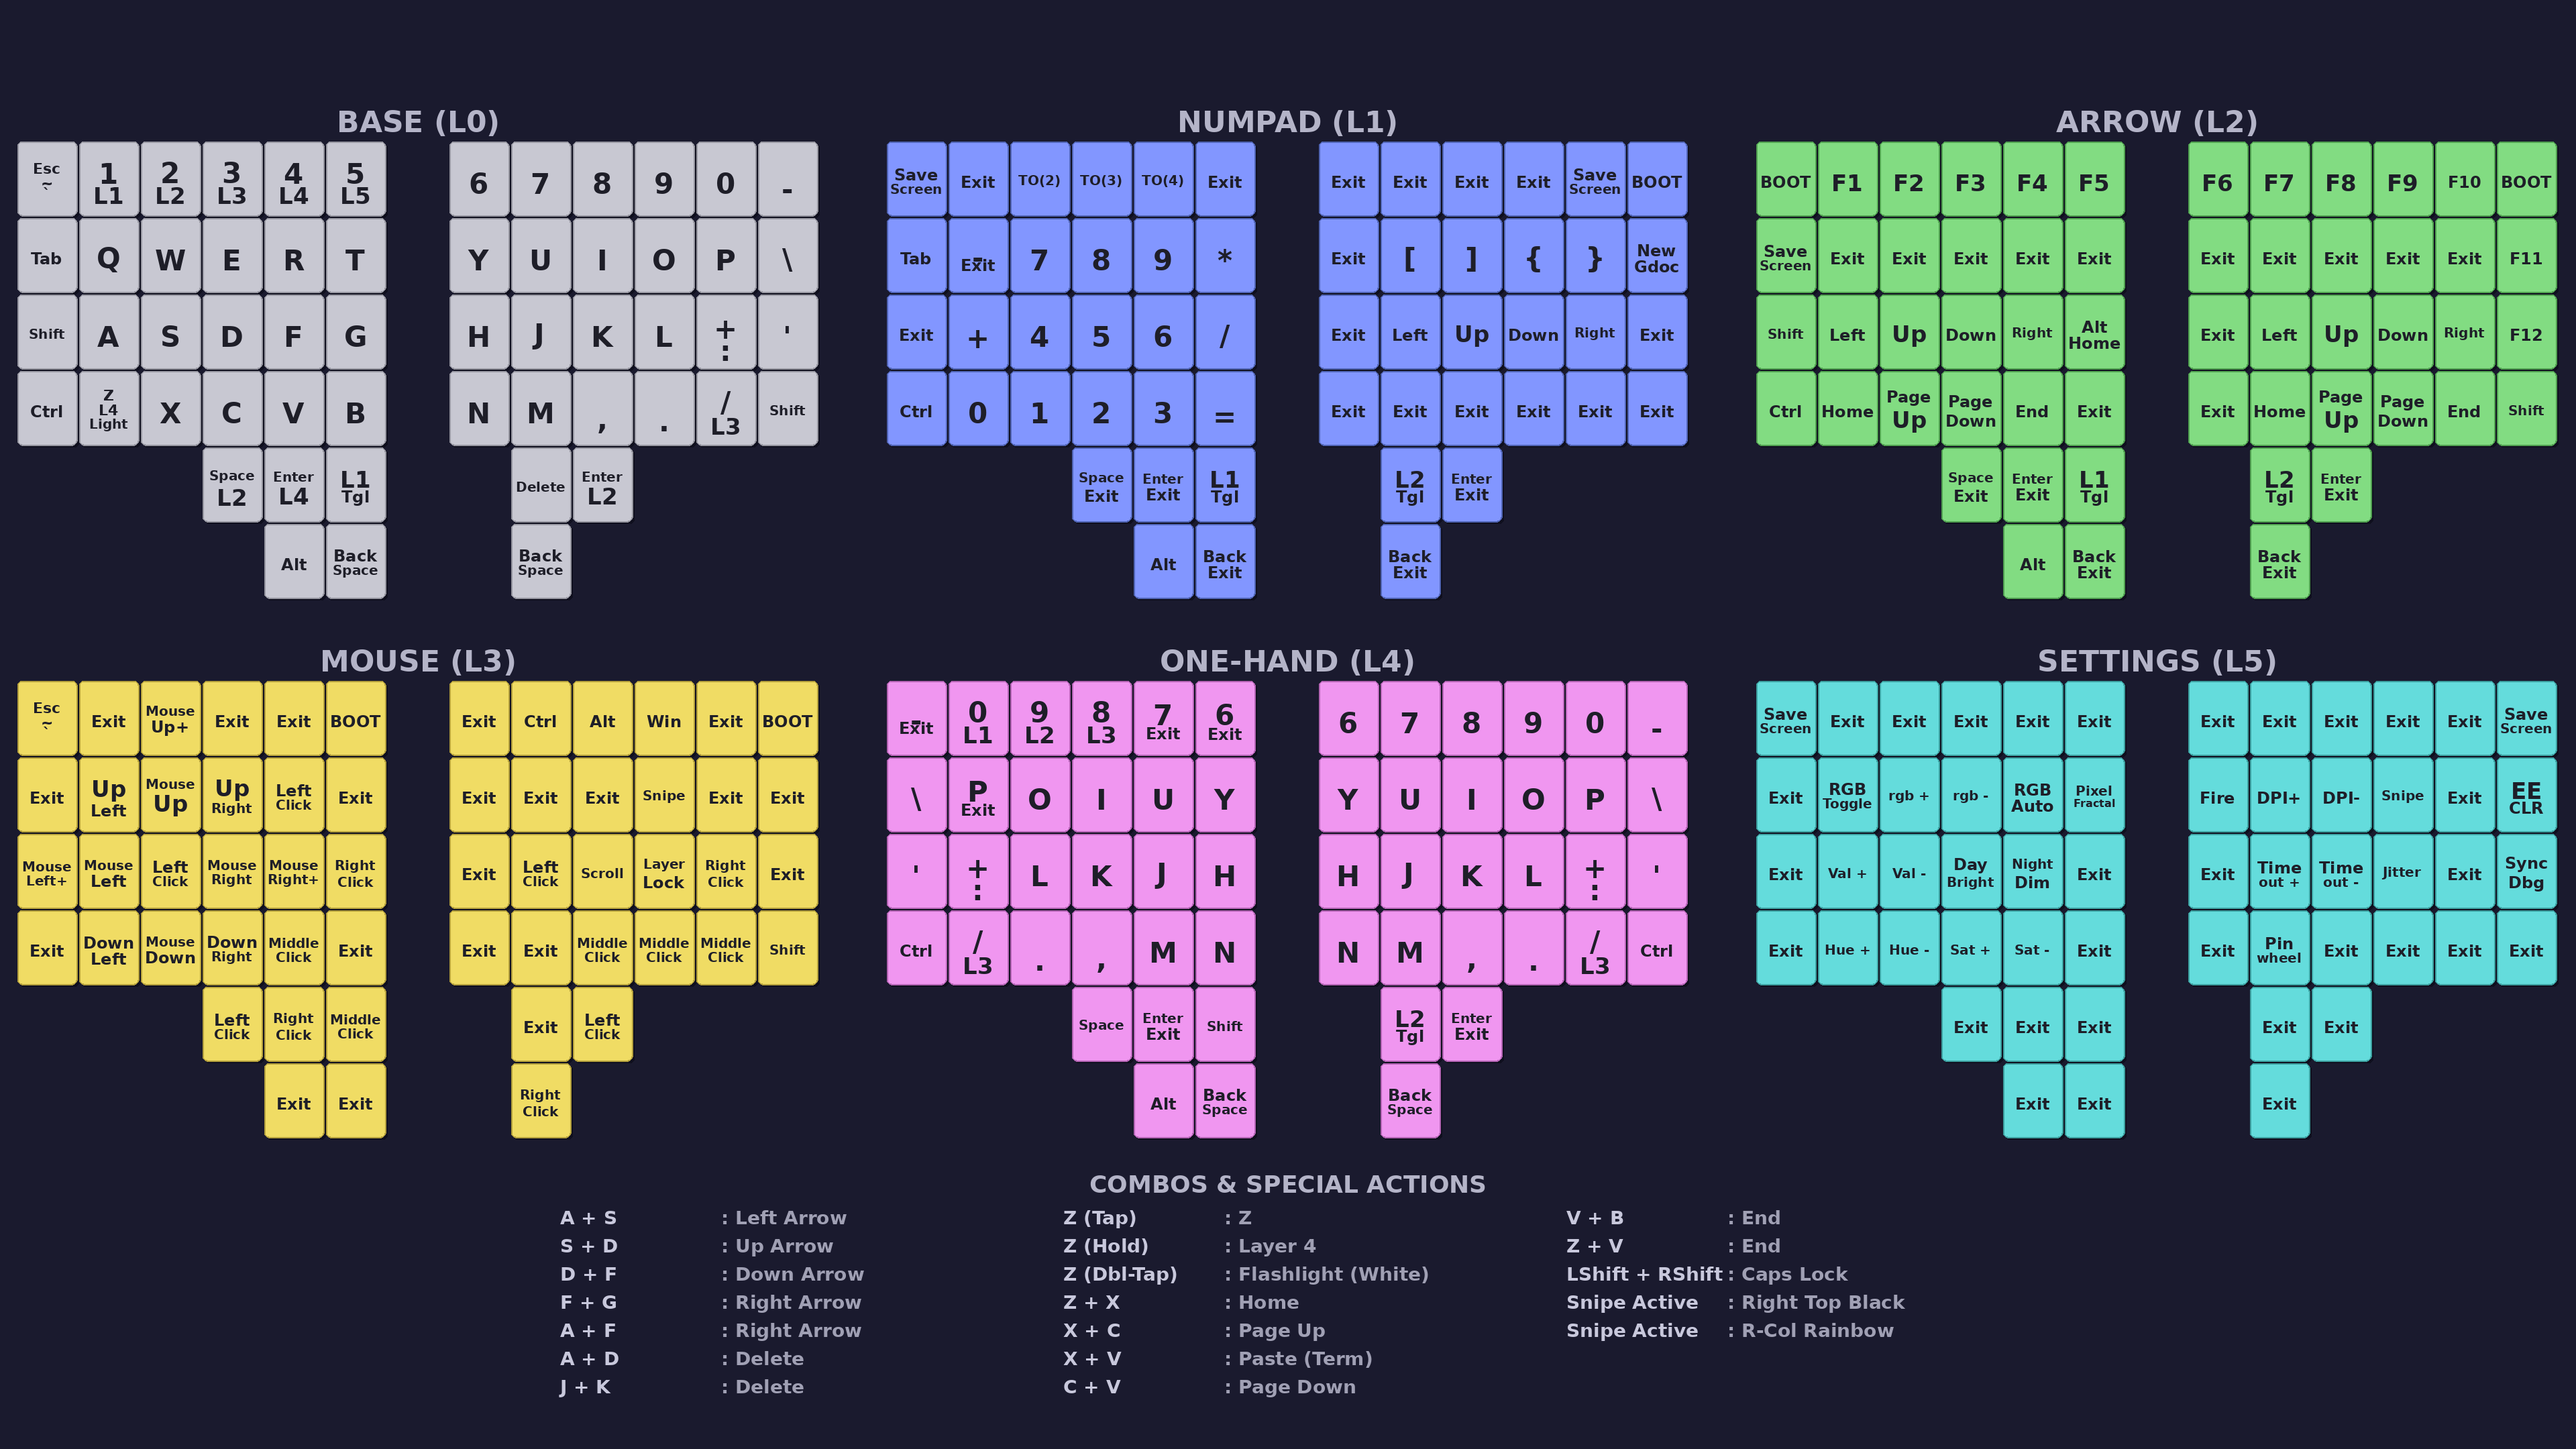
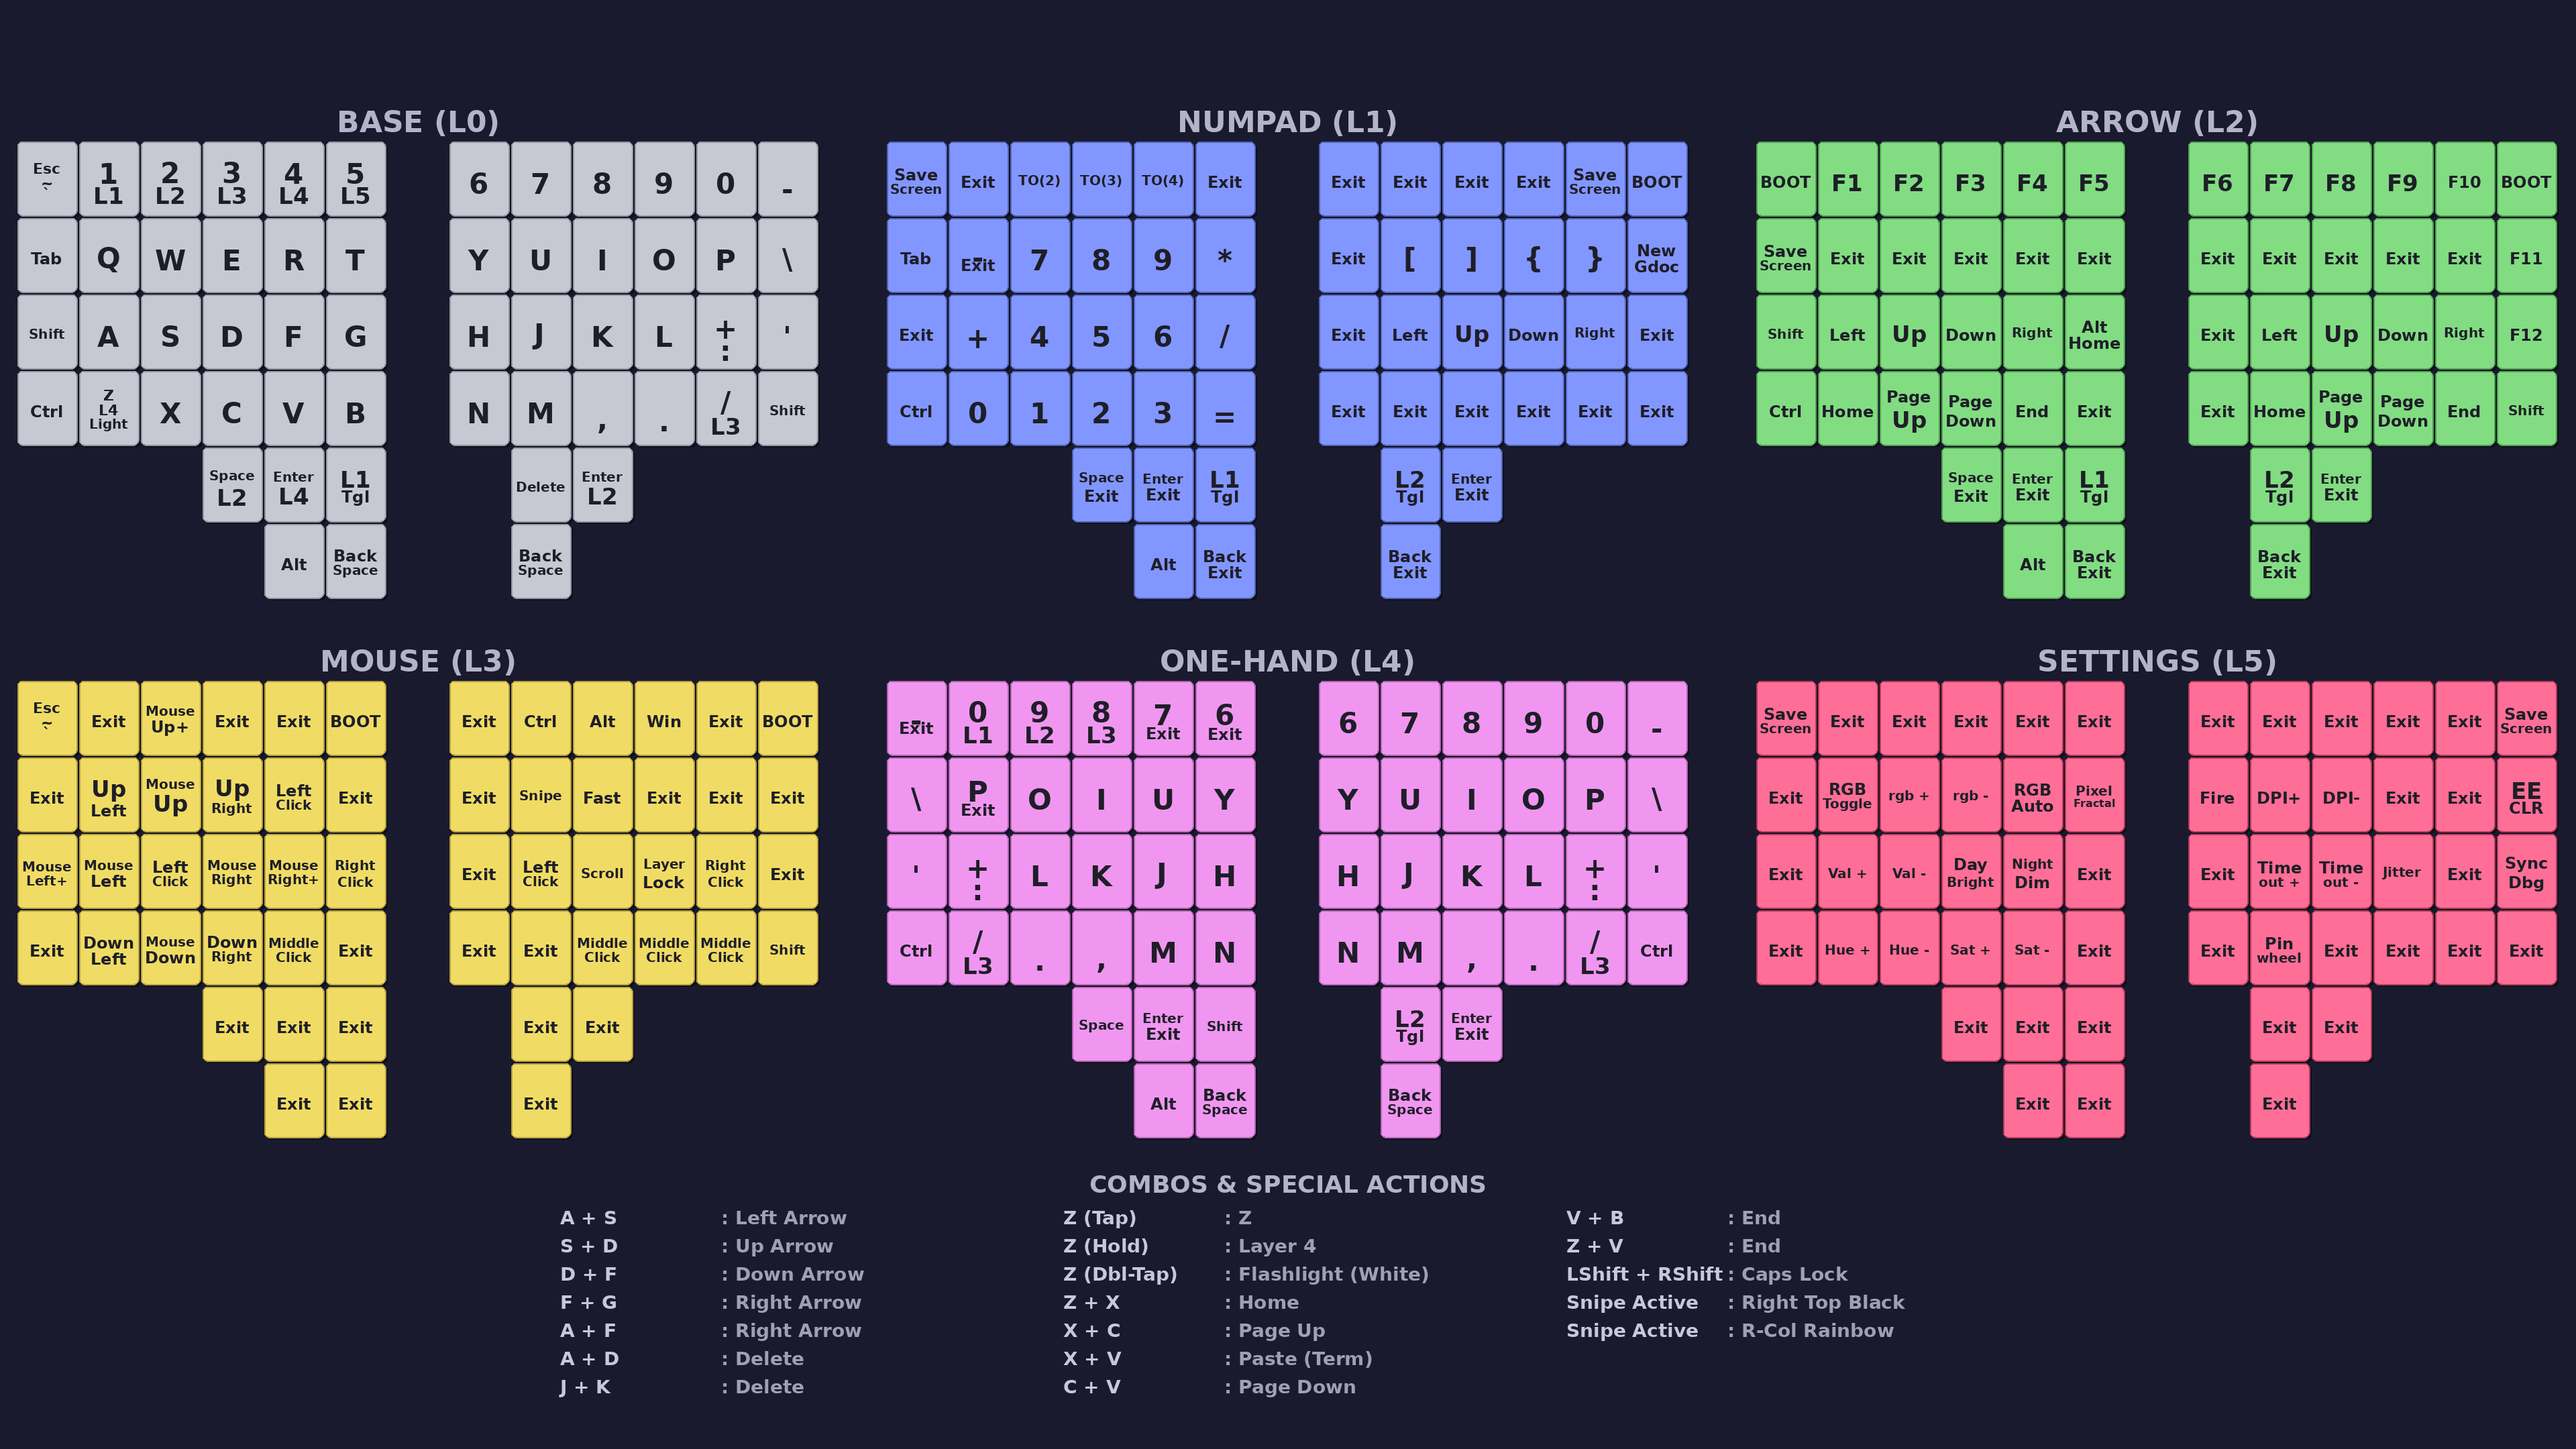
feat: Add Fast Mode and update Snipe Mode - Snipe Mode: Temporary (2.5s), 250 DPI, Slow Mouse Keys - Fast Mode: Temporary (2.5s), 3000 DPI, Fast Mouse Keys - Modes are mutually exclusive - Added KC_FAST to Layer 3 - Removed KC_SNIPE/KC_FAST from Layer 5 - Updated wallpaper and layout PDF

diff --git a/keymap/keymap.c b/keymap/keymap.c
@@ -82,6 +82,7 @@ enum custom_keycodes {
   KC_F12_EXIT,
   KC_FIRE,
   KC_SNIPE,
+  KC_FAST,
   KC_MS_TMO_INC,
   KC_MS_TMO_DEC,
   KC_SET_LEFT,
@@ -110,6 +111,9 @@ uint8_t cur_dance(tap_dance_state_t *state) {
 static tap_state_t z_tap_state = {.is_press_action = true, .state = 0};
 static bool is_flashlight = false;
 static bool is_sniping_active = false;
+static bool is_fast_mode_active = false;
+static uint16_t snipe_timer = 0;
+static uint16_t fast_mode_timer = 0;
 static bool mouse_is_locked = false;
 static bool is_jitter_filter_active = false; // Default: Filter OFF
 static uint8_t saved_rgb_mode;
@@ -121,7 +125,10 @@ static uint16_t auto_mouse_timeout = 1500; // Default 1.5 seconds, adjustable
 static uint16_t auto_mouse_timer = 0;
 static bool auto_mouse_on = false;
 
-
+// Mouse Key globals
+extern uint8_t mk_max_speed;
+extern uint8_t mk_time_to_max;
+extern uint8_t mk_interval;
 
 // Show mode state
 static bool show_mode_active = false;
@@ -169,6 +176,7 @@ static const uint8_t far_right_col[] = {0, 1, 2, 3};
 typedef struct _user_sync_info_t {
   bool is_flashlight;
   bool is_sniping_active;
+  bool is_fast_mode_active;
   bool mouse_is_locked;
   bool is_jitter_filter_active;
   bool show_mode_active;
@@ -207,6 +215,7 @@ void user_sync_info_slave_handler(uint8_t in_buflen, const void *in_data,
 
   is_flashlight = sync_data->is_flashlight;
   is_sniping_active = sync_data->is_sniping_active;
+  is_fast_mode_active = sync_data->is_fast_mode_active;
   mouse_is_locked = sync_data->mouse_is_locked;
   is_jitter_filter_active = sync_data->is_jitter_filter_active;
   show_mode_active = sync_data->show_mode_active;
@@ -411,6 +420,7 @@ void debug_dump_sync_state(void) {
   uprintf("show_mode_active: %s\n", show_mode_active ? "YES" : "no");
   uprintf("is_flashlight: %s\n", is_flashlight ? "YES" : "no");
   uprintf("is_sniping_active: %s\n", is_sniping_active ? "YES" : "no");
+  uprintf("is_fast_mode_active: %s\n", is_fast_mode_active ? "YES" : "no");
   uprintf("mouse_is_locked: %s\n", mouse_is_locked ? "YES" : "no");
   uprintf("is_jitter_filter_active: %s\n", is_jitter_filter_active ? "YES" : "no");
   uprintf("is_caps_lock_on: %s\n", is_caps_lock_on ? "YES" : "no");
@@ -1011,16 +1021,26 @@ bool process_record_user(uint16_t keycode, keyrecord_t *record) {
     return false;
   case KC_SNIPE:
     if (record->event.pressed) {
-      is_sniping_active = !is_sniping_active;
+      is_sniping_active = true;
+      is_fast_mode_active = false;
+      snipe_timer = timer_read();
       sync_needed = true;
-      if (is_sniping_active) {
-        pointing_device_set_cpi(250);
-        uprintf("[%lu.%03lu] Snipe ON. CPI -> 250\n", sec, ms);
-      } else {
-        pointing_device_set_cpi(charybdis_get_pointer_default_dpi());
-        uprintf("[%lu.%03lu] Snipe OFF. CPI -> Default (%u)\n", sec, ms,
-                pointing_device_get_cpi());
-      }
+      pointing_device_set_cpi(250);
+      mk_max_speed = 4; // Slow mouse keys
+      mk_interval = 24;
+      uprintf("[%lu.%03lu] Snipe ON (2.5s). CPI -> 250, MK -> Slow\n", sec, ms);
+    }
+    return false;
+  case KC_FAST:
+    if (record->event.pressed) {
+      is_fast_mode_active = true;
+      is_sniping_active = false;
+      fast_mode_timer = timer_read();
+      sync_needed = true;
+      pointing_device_set_cpi(3000);
+      mk_max_speed = 30; // Fast mouse keys
+      mk_interval = 10;
+      uprintf("[%lu.%03lu] Fast Mode ON (2.5s). CPI -> 3000, MK -> Fast\n", sec, ms);
     }
     return false;
   case KC_ENT_L2_EXIT:
@@ -1505,12 +1525,12 @@ const uint16_t PROGMEM keymaps[][MATRIX_ROWS][MATRIX_COLS] = {
                  KC_LCTL, KC_HOME, KC_PGUP, KC_PGDN, KC_END , KC_EXIT      ,   KC_EXIT, KC_HOME, KC_PGUP, KC_PGDN, KC_END , KC_RSFT,
                  KC_SPC_EXIT, KC_ENT_EXIT, KC_L_TG1, KC_R_TG2, KC_ENT_EXIT,
                  KC_LALT, KC_BSPC_EXIT, KC_BSPC_EXIT),
-    [3] = LAYOUT(QK_GESC, KC_EXIT   , KC_MS_FAST_UP, KC_EXIT, KC_EXIT  , QK_BOOT,   KC_EXIT, KC_RCTL, KC_RALT, KC_RGUI, KC_EXIT, QK_BOOT,
-                 KC_EXIT, KC_MS_DIAG_UL, MS_UP, KC_MS_DIAG_UR, MS_BTN1, KC_EXIT, KC_EXIT,   KC_EXIT, KC_EXIT, KC_SNIPE, KC_EXIT, KC_EXIT,
-                 KC_MS_FAST_LEFT, MS_LEFT, MS_BTN1 , MS_RGHT , KC_MS_FAST_RIGHT, MS_BTN2,   KC_EXIT, MS_BTN1, DRGSCRL, KC_MOUSE_LOCK, MS_BTN2, KC_EXIT,
-                 KC_EXIT, KC_MS_DIAG_DL  , MS_DOWN , KC_MS_DIAG_DR, MS_BTN3    , KC_EXIT,   KC_EXIT, KC_EXIT, MS_BTN3, MS_BTN3, MS_BTN3, KC_RSFT,
-                 MS_BTN1, MS_BTN2, MS_BTN3,
-                 KC_EXIT, MS_BTN1, KC_EXIT, KC_EXIT, MS_BTN2),
+    [3] = LAYOUT(QK_GESC, KC_EXIT   , KC_MS_FAST_UP, KC_EXIT, KC_EXIT , QK_BOOT,   KC_EXIT, KC_RCTL , KC_RALT, KC_RGUI, KC_EXIT, QK_BOOT,
+                 KC_EXIT, KC_MS_DIAG_UL, MS_UP, KC_MS_DIAG_UR, MS_BTN1, KC_EXIT,   KC_EXIT, KC_SNIPE, KC_FAST, KC_EXIT, KC_EXIT, KC_EXIT,
+                 KC_MS_FAST_LEFT, MS_LEFT, MS_BTN1 , MS_RGHT , KC_MS_FAST_RIGHT,   MS_BTN2, KC_EXIT , MS_BTN1, DRGSCRL, KC_MOUSE_LOCK, MS_BTN2, KC_EXIT,
+                 KC_EXIT, KC_MS_DIAG_DL  , MS_DOWN , KC_MS_DIAG_DR, MS_BTN3    ,   KC_EXIT, KC_EXIT , KC_EXIT, MS_BTN3, MS_BTN3, MS_BTN3, KC_RSFT,
+                                                      KC_EXIT, KC_EXIT, KC_EXIT,   KC_EXIT, KC_EXIT,
+                                                               KC_EXIT, KC_EXIT,   KC_EXIT),
     [4] = LAYOUT(KC_MINS_TO0, KC_0_TG1, KC_9_TG2, KC_8_TG3  , KC_7_TO0, KC_6_TO0,   KC_6, KC_7, KC_8, KC_9, KC_0, KC_MINS,
                  KC_BSLS    , KC_P_TO0, KC_O    , KC_I      , KC_U    , KC_Y    ,   KC_Y, KC_U, KC_I, KC_O, KC_P, KC_BSLS,
                  KC_QUOT, KC_PLUS_COLON, KC_L   , KC_K      , KC_J    , KC_H    ,   KC_H, KC_J, KC_K, KC_L, KC_PLUS_COLON, KC_QUOT,
@@ -1519,7 +1539,7 @@ const uint16_t PROGMEM keymaps[][MATRIX_ROWS][MATRIX_COLS] = {
                                                     KC_LALT, KC_BSPC,               KC_BSPC),
     // Settings Layer - RGB and Mouse configuration (accessed via Hold '5')
     [5] = LAYOUT(KC_PSCR, KC_EXIT, KC_EXIT, KC_EXIT, KC_EXIT    , KC_EXIT  ,   KC_EXIT, KC_EXIT, KC_EXIT, KC_EXIT, KC_EXIT, KC_PSCR,
-                 KC_EXIT, RM_TOGG, RM_NEXT, RM_PREV, KC_RGB_AUTO, KC_P_FRAC,   KC_FIRE, DPI_MOD, DPI_RMOD, KC_SNIPE, KC_EXIT, QK_CLEAR_EEPROM,
+                 KC_EXIT, RM_TOGG, RM_NEXT, RM_PREV, KC_RGB_AUTO, KC_P_FRAC,   KC_FIRE, DPI_MOD, DPI_RMOD, KC_EXIT, KC_EXIT, QK_CLEAR_EEPROM,
                  KC_EXIT, RM_VALU, RM_VALD, KC_DAY , KC_NIGHT   , KC_EXIT  ,   KC_EXIT, KC_MS_TMO_INC, KC_MS_TMO_DEC, KC_JITTER, KC_EXIT, KC_DEBUG_SYNC,
                  KC_EXIT, RM_HUEU, RM_HUED, RM_SATU, RM_SATD    , KC_EXIT  ,   KC_EXIT, KC_PINWHEEL, KC_EXIT, KC_EXIT, KC_EXIT, KC_EXIT,
                  KC_EXIT, KC_EXIT, KC_EXIT,
@@ -1576,6 +1596,19 @@ bool rgb_matrix_indicators_user(void) {
         HSV hsv = {hue, 255, 255};
         RGB rgb = hsv_to_rgb(hsv);
         rgb_matrix_set_color(far_right_col[i], rgb.r, rgb.g, rgb.b);
+      }
+    }
+    return false;
+  }
+
+  if (is_fast_mode_active) {
+    // Fast mode: Black out top row on RIGHT side, RED far right column
+    if (!is_keyboard_left()) {
+      for (int i = 0; i < sizeof(top_row_right); i++) {
+        rgb_matrix_set_color(top_row_right[i], 0, 0, 0);
+      }
+      for (int i = 0; i < sizeof(far_right_col); i++) {
+        rgb_matrix_set_color(far_right_col[i], 255, 0, 0);
       }
     }
     return false;
@@ -1783,6 +1816,7 @@ void housekeeping_task_user(void) {
       user_sync_info_t sync_data = {
           .is_flashlight = is_flashlight,
           .is_sniping_active = is_sniping_active,
+          .is_fast_mode_active = is_fast_mode_active,
           .mouse_is_locked = mouse_is_locked,
           .is_jitter_filter_active = is_jitter_filter_active,
           .show_mode_active = show_mode_active,
@@ -1910,6 +1944,26 @@ void matrix_scan_user(void) {
       start_show_mode();
     }
     uprintf("Deferred RGB init: mode %d applied\n", master_rgb_init_mode);
+  }
+
+  // Timeout for Snipe Mode (2.5s)
+  if (is_sniping_active && timer_elapsed(snipe_timer) > 2500) {
+    is_sniping_active = false;
+    pointing_device_set_cpi(charybdis_get_pointer_default_dpi());
+    mk_max_speed = 12; // Restore default
+    mk_interval = 16;
+    sync_needed = true;
+    uprintf("Snipe Mode Timeout. CPI -> Default\n");
+  }
+
+  // Timeout for Fast Mode (2.5s)
+  if (is_fast_mode_active && timer_elapsed(fast_mode_timer) > 2500) {
+    is_fast_mode_active = false;
+    pointing_device_set_cpi(charybdis_get_pointer_default_dpi());
+    mk_max_speed = 12; // Restore default
+    mk_interval = 16;
+    sync_needed = true;
+    uprintf("Fast Mode Timeout. CPI -> Default\n");
   }
 
   if (rgb_auto_cycle && timer_elapsed(rgb_auto_timer) > 30000) {

diff --git a/wallpaper.py b/wallpaper.py
@@ -24,7 +24,7 @@ LAYER_COLORS = {
     2: (130, 220, 130),    # Green (Arrow)
     3: (240, 220, 100),    # Yellow (Mouse)
     4: (240, 150, 240),    # Pink (One-Hand)
-    5: (100, 220, 220),    # Cyan (Settings)
+    5: (255, 110, 150),    # Hot Pink (Settings)
 }
 
 # Key border colors (darker versions)
@@ -34,7 +34,7 @@ KEY_BORDER_COLORS = {
     2: (80, 160, 80),
     3: (180, 160, 60),
     4: (180, 100, 180),
-    5: (60, 160, 160),
+    5: (180, 60, 90),
 }
 
 def get_font(size, bold=False):
@@ -302,6 +302,38 @@ def generate_wallpaper(output_path, keymap_path, info_path):
     # Save
     img.save(output_path, 'PNG', quality=95)
     print(f"Wallpaper saved to: {output_path}")
+    
+    # Refresh XFCE wallpaper
+    refresh_xfce_wallpaper(output_path)
+
+
+def refresh_xfce_wallpaper(image_path):
+    """Force XFCE to refresh the wallpaper."""
+    try:
+        # Get all properties related to last-image
+        import subprocess
+        cmd = ["xfconf-query", "-c", "xfce4-desktop", "-l"]
+        result = subprocess.run(cmd, capture_output=True, text=True)
+        if result.returncode != 0:
+            return
+
+        properties = [p for p in result.stdout.splitlines() if p.endswith("last-image")]
+        
+        for prop in properties:
+            # Check if it's currently set to this image or if we should just update it anyway
+            check_cmd = ["xfconf-query", "-c", "xfce4-desktop", "-p", prop]
+            current = subprocess.run(check_cmd, capture_output=True, text=True).stdout.strip()
+            
+            if current == image_path or "mech-keyboard/wallpaper.png" in current:
+                # Setting it to the same value often doesn't trigger a refresh if the path hasn't changed.
+                # We can try to toggle it or just set it. 
+                # Sometimes setting it to the absolute path again works.
+                subprocess.run(["xfconf-query", "-c", "xfce4-desktop", "-p", prop, "-s", ""], capture_output=True)
+                subprocess.run(["xfconf-query", "-c", "xfce4-desktop", "-p", prop, "-s", image_path], capture_output=True)
+                print(f"Refreshed XFCE property: {prop}")
+
+    except Exception as e:
+        print(f"Failed to refresh XFCE wallpaper: {e}")
 
 
 def main():

diff --git a/generate_layout_pdf.py b/generate_layout_pdf.py
@@ -343,6 +343,7 @@ def simplify_key(key_code, layer_num=None):
         'KC_FLASH': 'Flash',
         'KC_RAINBOW': 'Rain\nbow',
         'KC_SNIPE': 'Snipe',
+        'KC_FAST': 'Fast',
         'KC_SCR_LOCK': 'Scroll\nLock',
         'KC_RGB_AUTO': 'RGB\nAuto',
         'KC_PLUS_COLON': '+\n:',
